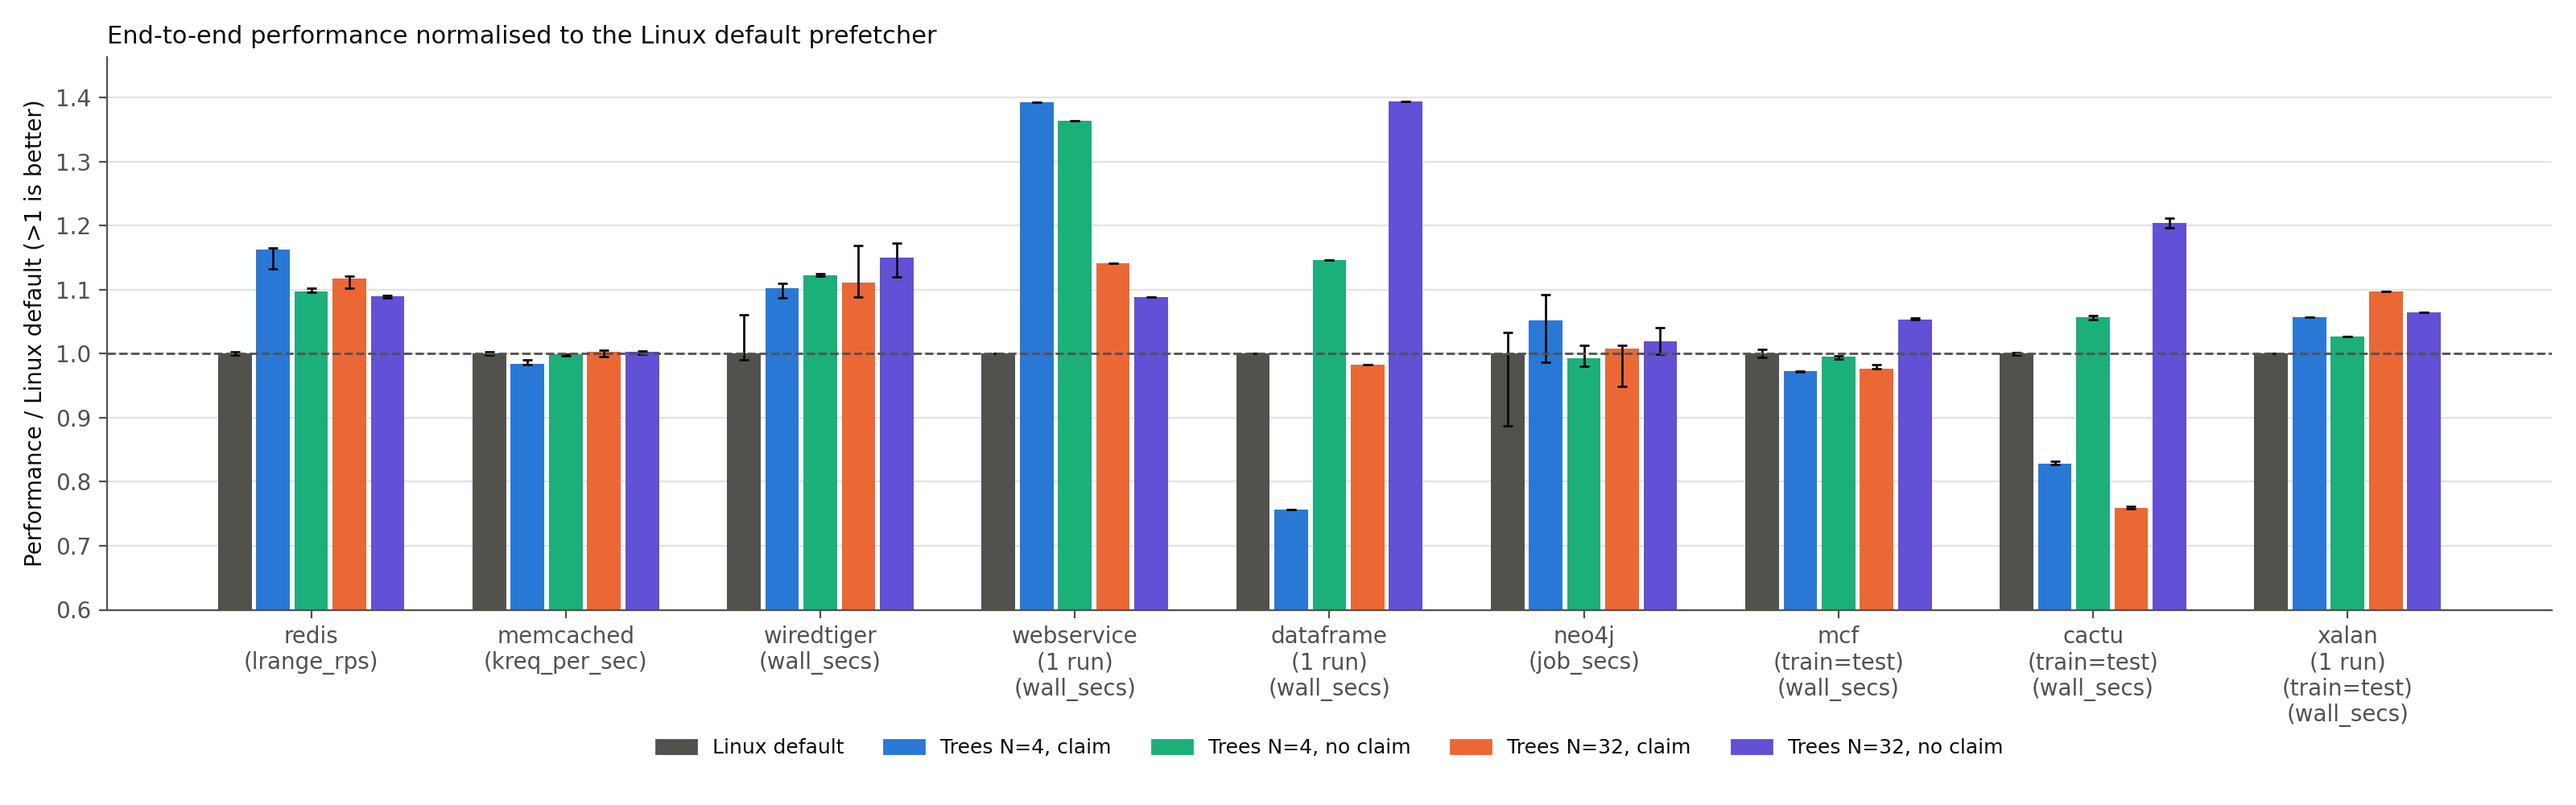
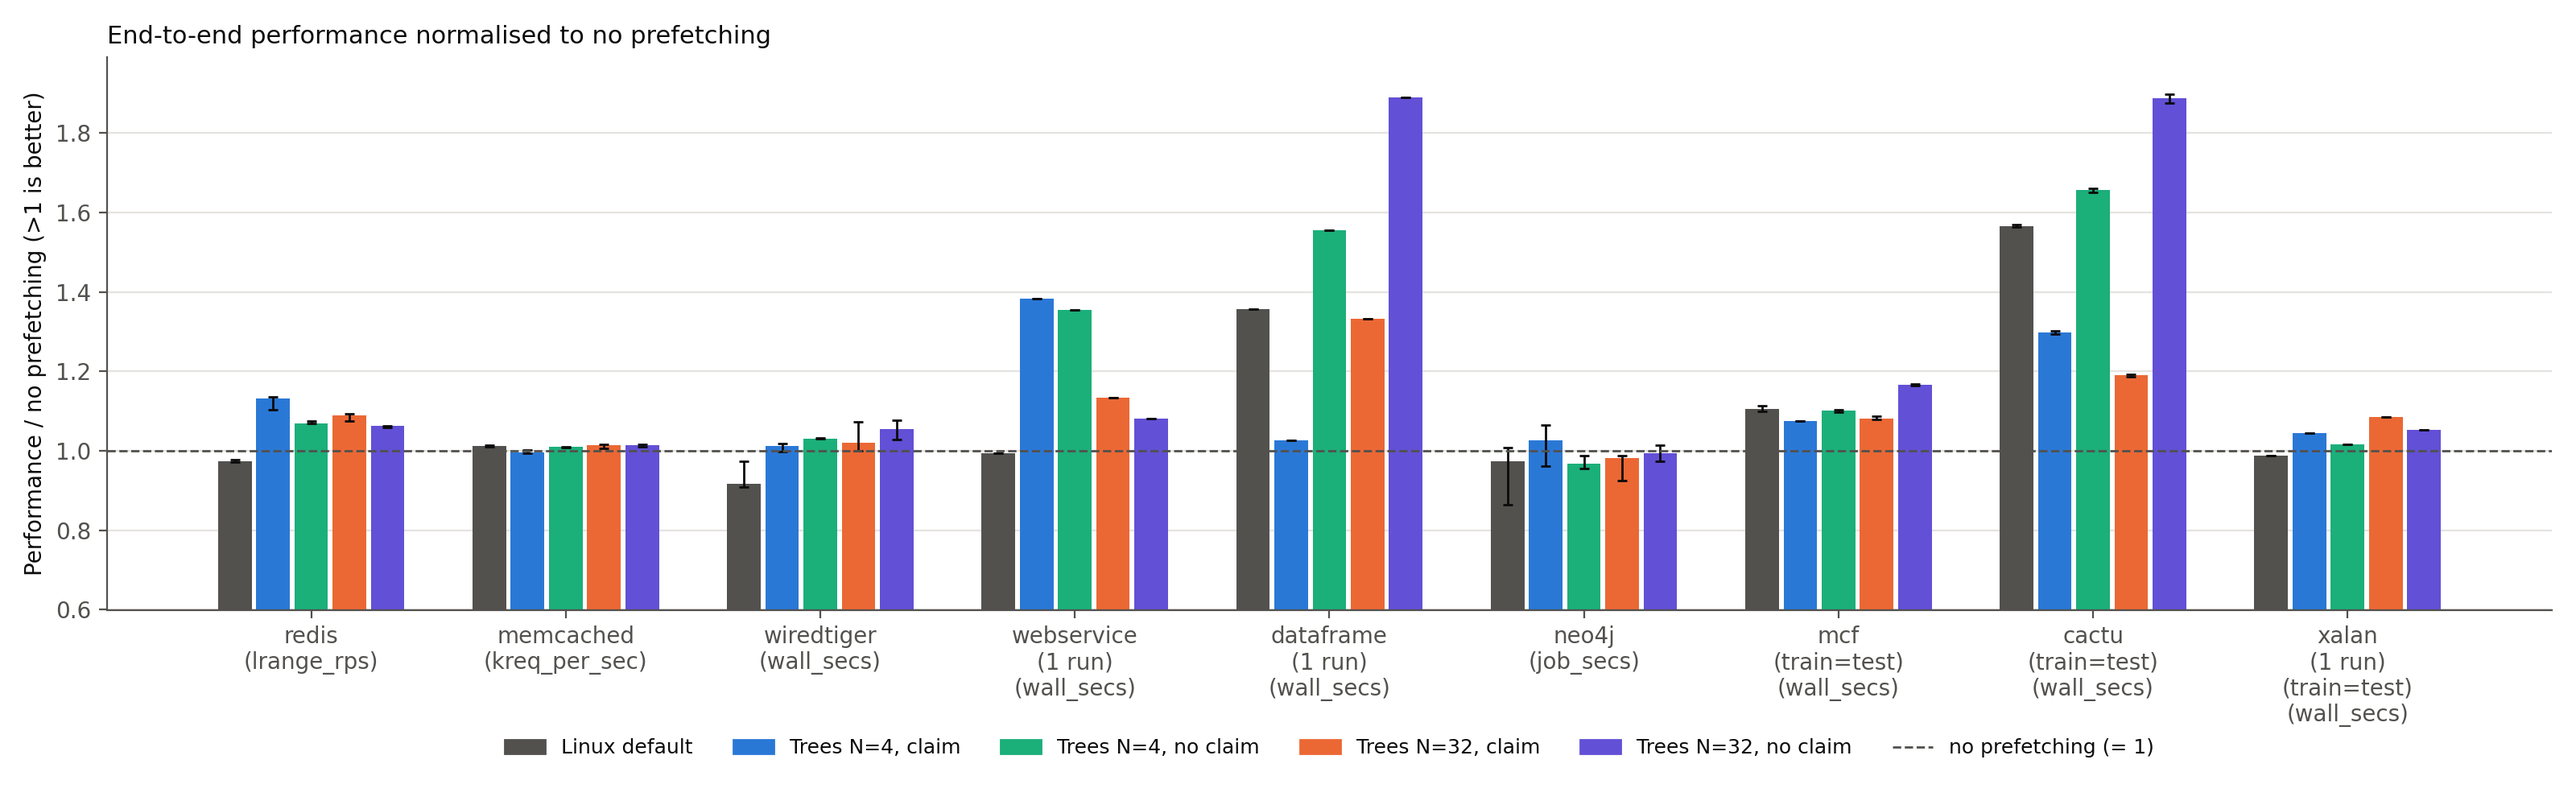
Normalise the linux66 performance plot to no prefetching

diff --git a/results/linux66/plot.py b/results/linux66/plot.py
@@ -3,8 +3,8 @@
 
 fig_faults_prefetches.png: major faults and prefetched pages per config, both
     normalised to the no-prefetch major faults of the same workload.
-fig_performance.png: end-to-end performance normalised to the Linux default,
-    oriented so >1 is better (default/config for times, config/default for rates).
+fig_performance.png: end-to-end performance normalised to no prefetching,
+    oriented so >1 is better (noprefetch/config for times, config/noprefetch for rates).
 
 Bars are the median over rounds; error bars span the 2nd..4th of the 5 sorted
 rounds (inter-quartile); workloads with one round have no error bar.
@@ -88,12 +88,12 @@ ax.legend(handles, [LABELS[c] for c in CONFIGS] + ["major faults", "prefetched p
 fig.tight_layout()
 fig.savefig(os.path.join(HERE, "fig_faults_prefetches.png"), dpi=200)
 
-# ---- figure 2: performance normalised to Linux default, >1 = better ----
+# ---- figure 2: performance normalised to no prefetching, >1 = better ----
 fig, ax = plt.subplots(figsize=(16, 5))
 w = 0.15
 for i, wl in enumerate(WORKLOADS):
-    base = np.median([float(r["metric"]) for r in rows[wl, "default"]])
-    lower = rows[wl, "default"][0]["better"] == "lower"
+    base = np.median([float(r["metric"]) for r in rows[wl, "noprefetch"]])
+    lower = rows[wl, "noprefetch"][0]["better"] == "lower"
     for k, c in enumerate(CONFIGS):
         vals = [base / float(r["metric"]) if lower else float(r["metric"]) / base
                 for r in rows[wl, c]]
@@ -104,11 +104,12 @@ ax.axhline(1, color=INK2, lw=1, ls="--")
 ax.set_xticks(range(len(WORKLOADS)),
               [f"{xlabel(wl)}\n({rows[wl, 'default'][0]['metric_name']})" for wl in WORKLOADS])
 ax.set_ylim(0.6, None)
-ax.set_ylabel("Performance / Linux default (>1 is better)")
-ax.set_title("End-to-end performance normalised to the Linux default prefetcher", loc="left", fontsize=11)
+ax.set_ylabel("Performance / no prefetching (>1 is better)")
+ax.set_title("End-to-end performance normalised to no prefetching", loc="left", fontsize=11)
 style(ax)
-ax.legend([plt.Rectangle((0, 0), 1, 1, color=COLORS[c]) for c in CONFIGS],
-          [LABELS[c] for c in CONFIGS], ncol=5, frameon=False, loc="upper center",
+ax.legend([plt.Rectangle((0, 0), 1, 1, color=COLORS[c]) for c in CONFIGS]
+          + [plt.Line2D([0], [0], color=INK2, lw=1, ls="--")],
+          [LABELS[c] for c in CONFIGS] + ["no prefetching (= 1)"], ncol=6, frameon=False, loc="upper center",
           bbox_to_anchor=(0.5, -0.2), fontsize=9)
 fig.tight_layout()
 fig.savefig(os.path.join(HERE, "fig_performance.png"), dpi=200)
